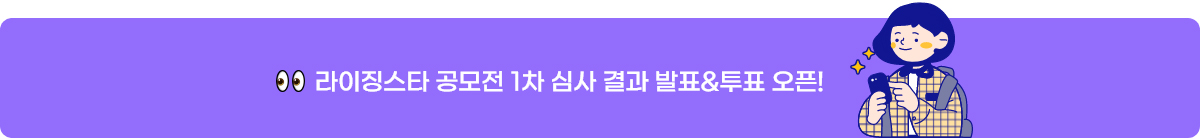
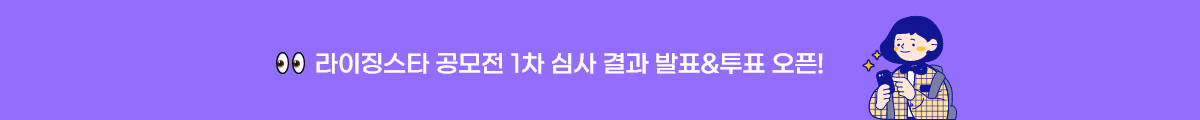
22.06.10

Changed region(s): [[0.0, 0.0, 1.0, 1.0], [0.9867, 0.95, 1.0, 1.0], [0.0, 0.975, 0.0308, 1.0]]

diff --git a/kyobo/ink/html/guide/00_pop_guide.html b/kyobo/ink/html/guide/00_pop_guide.html
@@ -189,7 +189,7 @@ function delayBtn(thisBtn){
 
 <!-- 팝업 : 알림(확인) : popAlert01 -->
 <div id="popAlert01" class="dialog_wrap" data-class="dialog_alert">
-    <button type="button" class="btn_dialog_close" data-dialog-close><span class="ico_dialog_close"></span><span class="hidden">닫기</span></button>
+    <!--<button type="button" class="btn_dialog_close" data-dialog-close><span class="ico_dialog_close"></span><span class="hidden">닫기</span></button>-->
     <!-- dialog_header -->
     <div class="dialog_header">
         <div class="dialog_title">알림</div>
@@ -215,7 +215,7 @@ function delayBtn(thisBtn){
 
 <!-- 팝업 : 알림(취소/확인) : popAlert02 -->
 <div id="popAlert02" class="dialog_wrap" data-class="dialog_alert">
-    <button type="button" class="btn_dialog_close" data-dialog-close><span class="ico_dialog_close"></span><span class="hidden">닫기</span></button>
+    <!--<button type="button" class="btn_dialog_close" data-dialog-close><span class="ico_dialog_close"></span><span class="hidden">닫기</span></button>-->
     <!-- dialog_header -->
     <div class="dialog_header">
         <div class="dialog_title">알림</div>
@@ -242,7 +242,7 @@ function delayBtn(thisBtn){
 
 <!-- 팝업 : 알림(타이틀 없는 경우) : popAlert03 -->
 <div id="popAlert03" class="dialog_wrap no_title" data-class="dialog_alert">
-    <button type="button" class="btn_dialog_close" data-dialog-close><span class="ico_dialog_close"></span><span class="hidden">닫기</span></button>
+    <!--<button type="button" class="btn_dialog_close" data-dialog-close><span class="ico_dialog_close"></span><span class="hidden">닫기</span></button>-->
 
     <!-- dialog_contents -->
     <div class="dialog_contents">

diff --git a/kyobo/ink/scss/_ht_tempate.scss b/kyobo/ink/scss/_ht_tempate.scss
@@ -267,7 +267,7 @@
     .swiper-slide {
         position:relative;
         img {
-            width:100%;
+            width:100%;height:240px;object-fit:cover;
         }
         .img {
             border-radius:12px;overflow:hidden;
@@ -330,7 +330,7 @@
     .swiper-slide {
         position:relative;
         img {
-            width:100%;
+            width:100%;height:120px;object-fit:cover;
         }
         a {
             display:block;position:relative;

diff --git a/kyobo/ink/css/ht_css_ink.css b/kyobo/ink/css/ht_css_ink.css
@@ -2795,6 +2795,9 @@ body {
 
 .ht_belt_banner .swiper-slide img {
   width: 100%;
+  height: 240px;
+  -o-object-fit: cover;
+     object-fit: cover;
 }
 
 .ht_belt_banner .swiper-slide .img {
@@ -2894,6 +2897,9 @@ body {
 
 .ht_under_banner .swiper-slide img {
   width: 100%;
+  height: 120px;
+  -o-object-fit: cover;
+     object-fit: cover;
 }
 
 .ht_under_banner .swiper-slide a {
